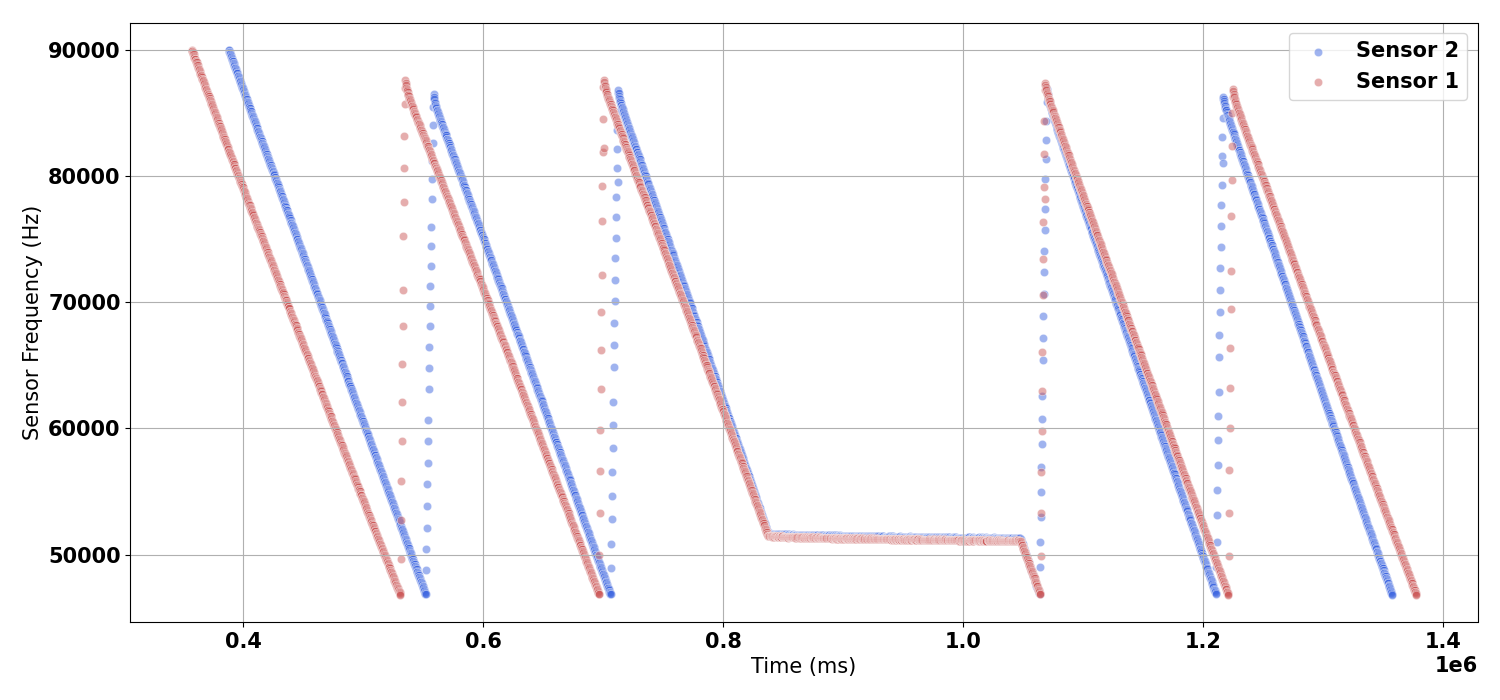
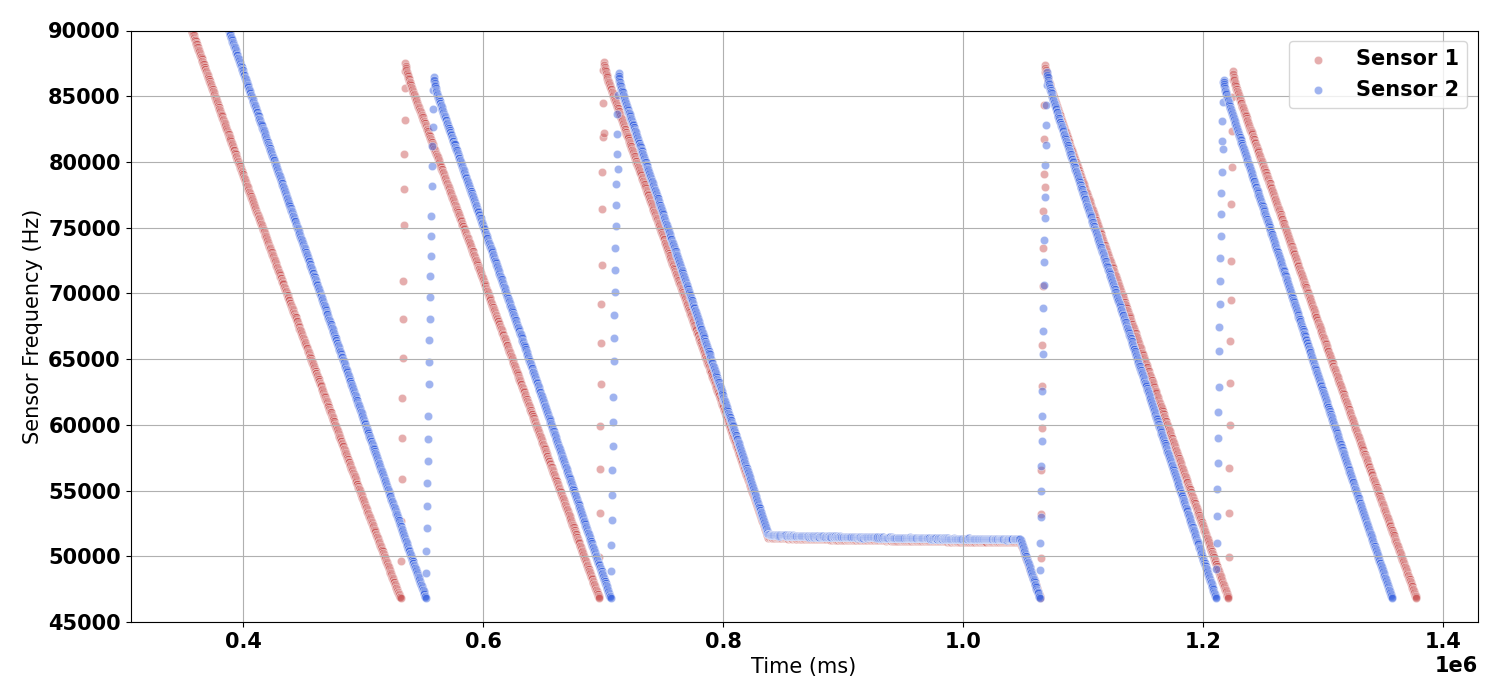
Updates the dose rates in the experiments of 24th of February :wq
Also updated some figure settings.

diff --git a/FGD_03F_file_analysis_functions.py b/FGD_03F_file_analysis_functions.py
@@ -1132,18 +1132,18 @@ def HIGH_B3_Feb_24_analysis(file_1,file_2,folder):
     savefolder = os.getcwd()+'\\Figures\\HollandPTC_0224\\B3_HIGH'
     file_name_1, file_name_2 = str(file_1), str(file_2)
     dataset_1, dataset_2 = read_file(folder,file_1),read_file(folder,file_2)
-    dose_rate = dose_rates[1] # Gy/s
+    dose_rate = 0.007567424 # Gy/s, see calculation table in excel, approx 120 MeV at target
 
     # use recharge reg and frequencies to determine endpoints of linear region
-    # start lin region a bit after a recharge ends to exclude overshoots. Second test run starts at t = 84e4 ms
+    # start lin region a bit after a recharge ends to exclude overshoots. Second test run stops at t = 84e4 ms
     i_start_1_1, i_end_1_1 = dataset_1.index[dataset_1[F_s_info] <= 90000].tolist()[0], dataset_1.index[dataset_1[F_s_info] <= 50000].tolist()[0] 
     i_start_1_2, i_end_1_2 = dataset_1.index[dataset_1[R_r_info] == 1].tolist()[5], dataset_1.index[dataset_1[R_r_info] == 129].tolist()[0]
-    i_start_1_3, i_end_1_3 = dataset_1.index[dataset_1[R_r_info] == 2].tolist()[5], dataset_1.index[dataset_1[t_info] >= 84e4].tolist()[0]
+    i_start_1_3, i_end_1_3 = dataset_1.index[dataset_1[R_r_info] == 2].tolist()[5], dataset_1.index[(dataset_1[t_info] >= 84e4)].tolist()[0]
     i_start_1_4, i_end_1_4 = dataset_1.index[dataset_1[R_r_info] == 3].tolist()[5], dataset_1.index[dataset_1[R_r_info] == 131].tolist()[0]
     i_start_1_5, i_end_1_5 = dataset_1.index[dataset_1[R_r_info] == 4].tolist()[5], dataset_1.index[dataset_1[R_r_info] == 132].tolist()[0]
     i_start_2_1, i_end_2_1 = dataset_2.index[dataset_2[F_s_info] <= 90000].tolist()[0], dataset_2.index[dataset_2[F_s_info] <= 50000].tolist()[0] 
     i_start_2_2, i_end_2_2 = dataset_2.index[dataset_2[R_r_info] == 1].tolist()[5], dataset_2.index[dataset_2[R_r_info] == 129].tolist()[0]
-    i_start_2_3, i_end_2_3 = dataset_2.index[dataset_2[R_r_info] == 2].tolist()[5], dataset_2.index[dataset_2[t_info] >= 84e4].tolist()[0]
+    i_start_2_3, i_end_2_3 = dataset_2.index[dataset_2[R_r_info] == 2].tolist()[5], dataset_2.index[(dataset_2[t_info] >= 84e4)].tolist()[0]
     i_start_2_4, i_end_2_4 = dataset_2.index[dataset_2[R_r_info] == 3].tolist()[5], dataset_2.index[dataset_2[R_r_info] == 131].tolist()[0]
     i_start_2_5, i_end_2_5 = dataset_2.index[dataset_2[R_r_info] == 4].tolist()[5], dataset_2.index[dataset_2[R_r_info] == 132].tolist()[0]
 
@@ -1186,11 +1186,21 @@ def HIGH_B3_Feb_24_analysis(file_1,file_2,folder):
     y_1, y_2 = dataset_1.loc[i_start_1_1:i_end_1_5,F_s_info],dataset_2.loc[i_start_2_1:i_end_2_5,F_s_info]
     xmin, xmax = limits([x_1,x_2])
     fig, ax = plt.subplots(figsize=(15,7))
-    sb.scatterplot(x=x_2, y=y_2,color='royalblue',label = 'Sensor 2',ax=ax, alpha=0.5,marker='o')
     sb.scatterplot(x=x_1, y=y_1,color='indianred',label = 'Sensor 1',ax=ax, alpha=0.5,marker='o')
+    sb.scatterplot(x=x_2, y=y_2,color='royalblue',label = 'Sensor 2',ax=ax, alpha=0.5,marker='o')
+
+    step = round((xmax-xmin)/steps)
+    x_linreg = range(xmin,xmax,500)
+    #  linreg lines for S2
+    # sb.lineplot(x=x_linreg, y=f_linreg(coeffs[1][0],intercepts[1][0],x_linreg),color='red', label = str(int(sensitivities[1][0]))+' (Hz/Gy)',ax=ax)
+    # sb.lineplot(x=x_linreg, y=f_linreg(coeffs[1][1],intercepts[1][1],x_linreg),color='red', label = str(int(sensitivities[1][1]))+' (Hz/Gy)',ax=ax)
+    # sb.lineplot(x=x_linreg, y=f_linreg(coeffs[1][2],intercepts[1][2],x_linreg),color='red', label = str(int(sensitivities[1][2]))+' (Hz/Gy)',ax=ax)
+    # sb.lineplot(x=x_linreg, y=f_linreg(coeffs[1][3],intercepts[1][3],x_linreg),color='red', label = str(int(sensitivities[1][3]))+' (Hz/Gy)',ax=ax)
+    # sb.lineplot(x=x_linreg, y=f_linreg(coeffs[1][4],intercepts[1][4],x_linreg),color='red', label = str(int(sensitivities[1][4]))+' (Hz/Gy)',ax=ax)
     # ax.set_xticks(range(xmin,xmax,step))
     # ax.set_xticklabels(range(xmin,xmax,step),rotation=30)
     ax.grid()
+    ax.set_ylim([45000,90000])
     fig.tight_layout()
     fig.show()
     fig.savefig(savefolder+'\\'+file_name_2[0:-7]+'_linregs_'+'.png')
@@ -1204,7 +1214,7 @@ def HIGH_D4_2_Feb_24_analysis(file_1,file_2,folder):
     savefolder = os.getcwd()+'\\Figures\\HollandPTC_0224\\D4_2_HIGH'
     file_name_1, file_name_2 = str(file_1), str(file_2)
     dataset_1, dataset_2 = read_file(folder,file_1),read_file(folder,file_2)
-    dose_rate = dose_rates[2] # Gy/s
+    dose_rate = 0.027886514 # Gy/s, see excel, approximation for 140 MeV at target
 
     # use end and startpoints. use recharge of Sensor 2 to determine t_recharge
     # approx: beam starts at t=4e4 ms 

diff --git a/FGD_03F_analysis.py b/FGD_03F_analysis.py
@@ -11,8 +11,8 @@ from FGD_03F_file_analysis_functions import *
 from FGD_03F_noise_analysis_functions import *
 
 flag_HollandPTC_1216 = 0
-flag_HollandPTC_0224 = 0
-flag_Noise = 1
+flag_HollandPTC_0224 = 1
+flag_Noise = 0
 
 if (flag_HollandPTC_1216):
     # which files to analyse
@@ -53,8 +53,8 @@ elif (flag_HollandPTC_0224):
     start_of_filename = "FGDOS"
     folder = "CSV_files\\Arduino\\HollandPTC_0224\\corrected"
     # file flags
-    flag_HIGH_B3_Feb_24 = 1
-    flag_HIGH_D4_2_Feb_24 = 0
+    flag_HIGH_B3_Feb_24 = 0
+    flag_HIGH_D4_2_Feb_24 = 1
 
 def main():
     # get csv files in subfolder, set the start of filename parameter to select specific files

diff --git a/FGD_03F_functions.py b/FGD_03F_functions.py
@@ -12,11 +12,9 @@ import fitter as ft
 
 # radiation test variables
 A1, A2, A3, A4 = [70,1.71*10**6],[70,7.07*10**6],[70,1.4*10**7],[70,3.69*10**7] # MeV, particles/cm²/s
-LET_70_Si = 0.007641 # MeV cm²/mg
+LET_70_Si = 0.007641 # MeV cm²/mg, dE/dx electronic, SRIM
 rad_conv = 1.6*10**-5 # conversion factor to rad
 gy_conv = 1.6*10**-7 # conversion factor to Gy
-# dose rates for experiments on Feb 24
-dose_rates = np.array([0.013,0.5,1.84])/60 # Gy/s
 
 # linear regression function definition
 def f_linreg(a,b,x):
